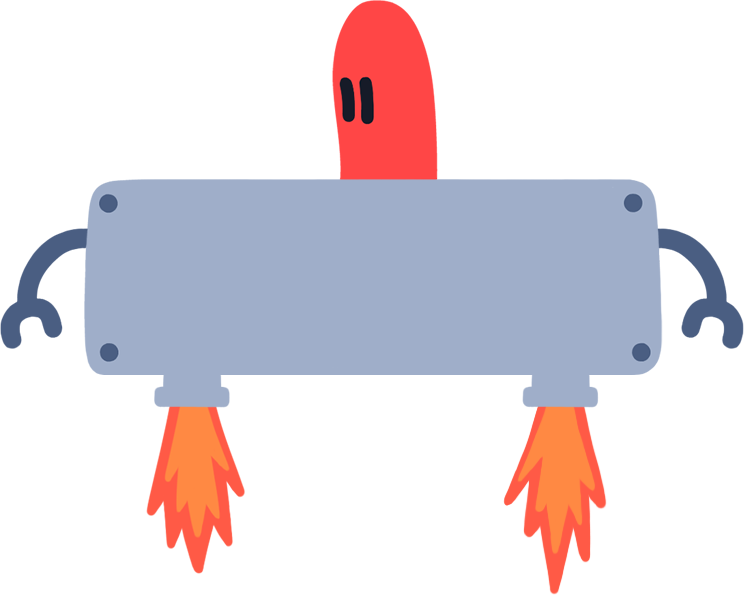
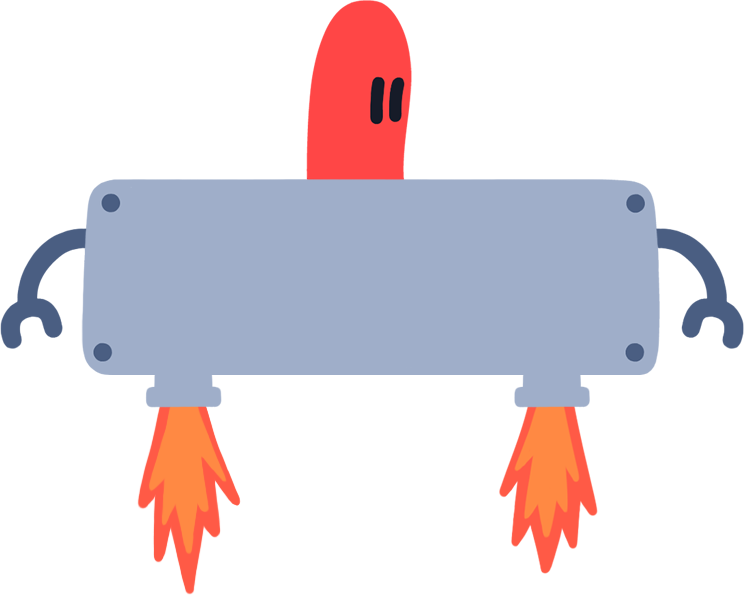
final changes before video

diff --git a/script.js b/script.js
@@ -34,14 +34,16 @@ const io = makePart({
 		const {width, height} = canvas
 		return {
 			x: context.canvas.width - (ratio * (width+berd.width)),
-			y: height/2 + Math.cos(0.5)*100 + Math.cos(time)*100,
+			y: height/3*1.35 + Math.cos(0.5)*100 + Math.cos(time)*100,
 			rotation: -ratio*2 + Math.PI/4,
+			scale: [1.2, 1.2],
 		}
 	}
 })
 
 const sequence = makePart({
 	sprite: tode,
+	particleCount: 20,
 	placer: ({context, time, ratio}) => {
 		const {canvas} = context
 		const {width, height} = canvas
@@ -49,27 +51,29 @@ const sequence = makePart({
 		const size = 200
 		const rotation = time*speed
 		const centerX = width/2 - tode.width/2
-		const centerY = height/4
+		const centerY = height/5
 		return {
-			x: centerX - Math.sin(-rotation) * size,
-			y: centerY - Math.cos(-rotation) * size,
+			x: centerX - Math.sin(-rotation) * size * 1.2,
+			y: centerY - Math.cos(-rotation) * size * 1.2,
 			rotation: rotation + Math.PI,
-			scale: [1, 1],
+			scale: [1.2, 1.2],
 		}
 	}
 })
 
 const judge = makePart({
-	sprite: bot,
+	sprite: tode,
+	particleCount: 35,
 	placer: ({context, time, ratio, sprite}) => {
 		const {canvas} = context
 		const {width, height} = canvas
 		const centerX = width/2 - sprite.width/2
-		const centerY = 3*height/4 - sprite.height/3
+		const centerY = 3*height/4 - sprite.height/2
 		return {
-			x: centerX + Math.cos(time)*150,
-			y: centerY + Math.sin(time*2)*175,
+			x: centerX + Math.cos(time)*150*1.3,
+			y: centerY + Math.sin(time*2)*175*1.5,
 			rotation: 0,
+			scale: [1.2, 1.2],
 		}
 	}
 })
